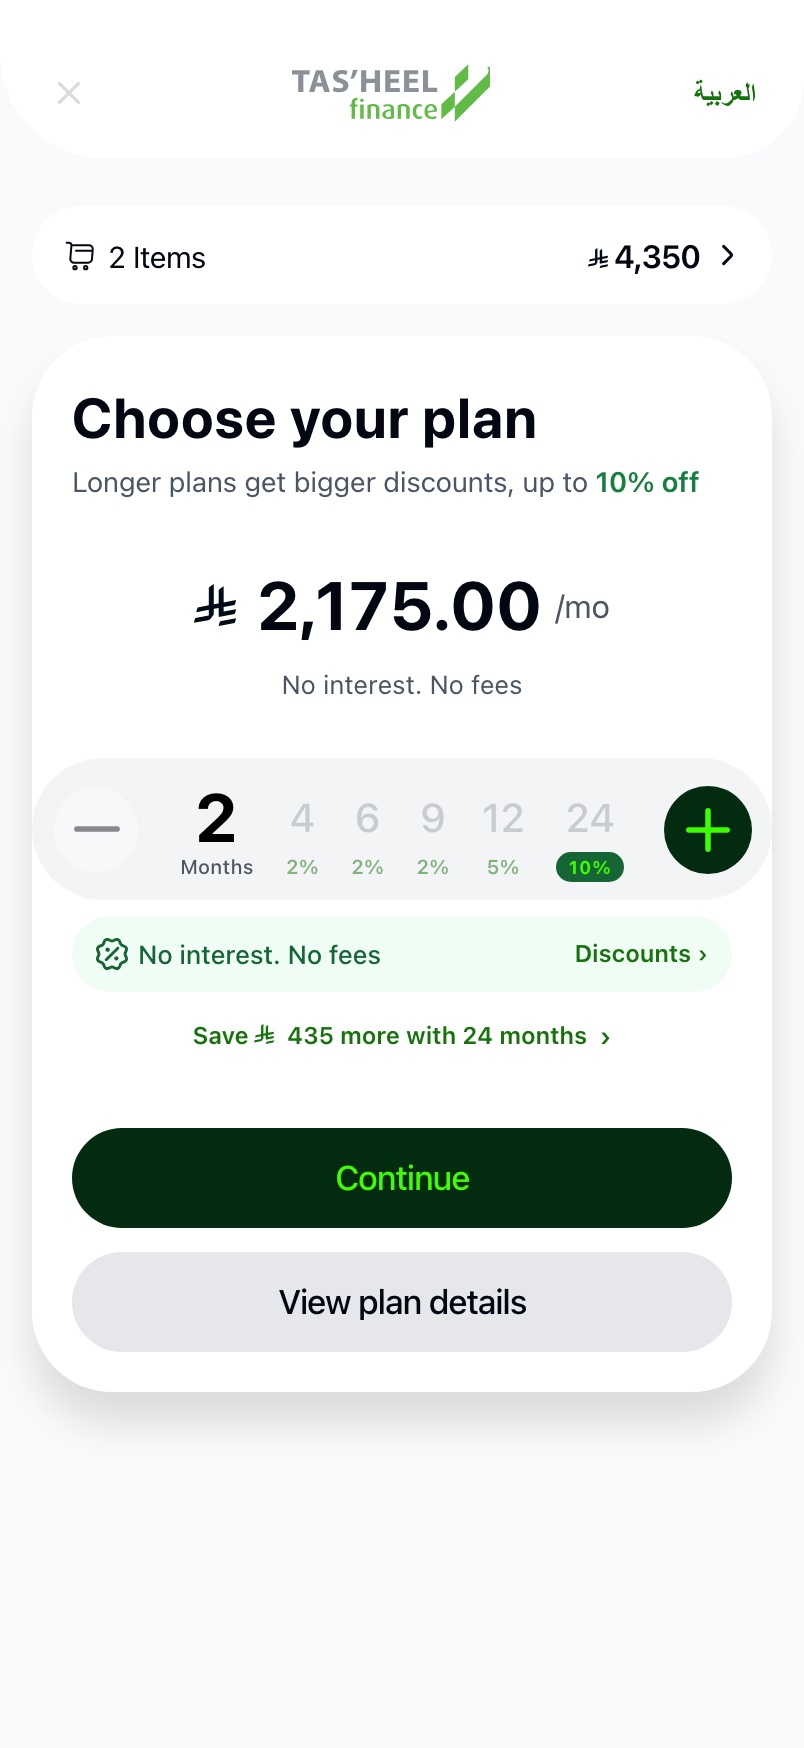
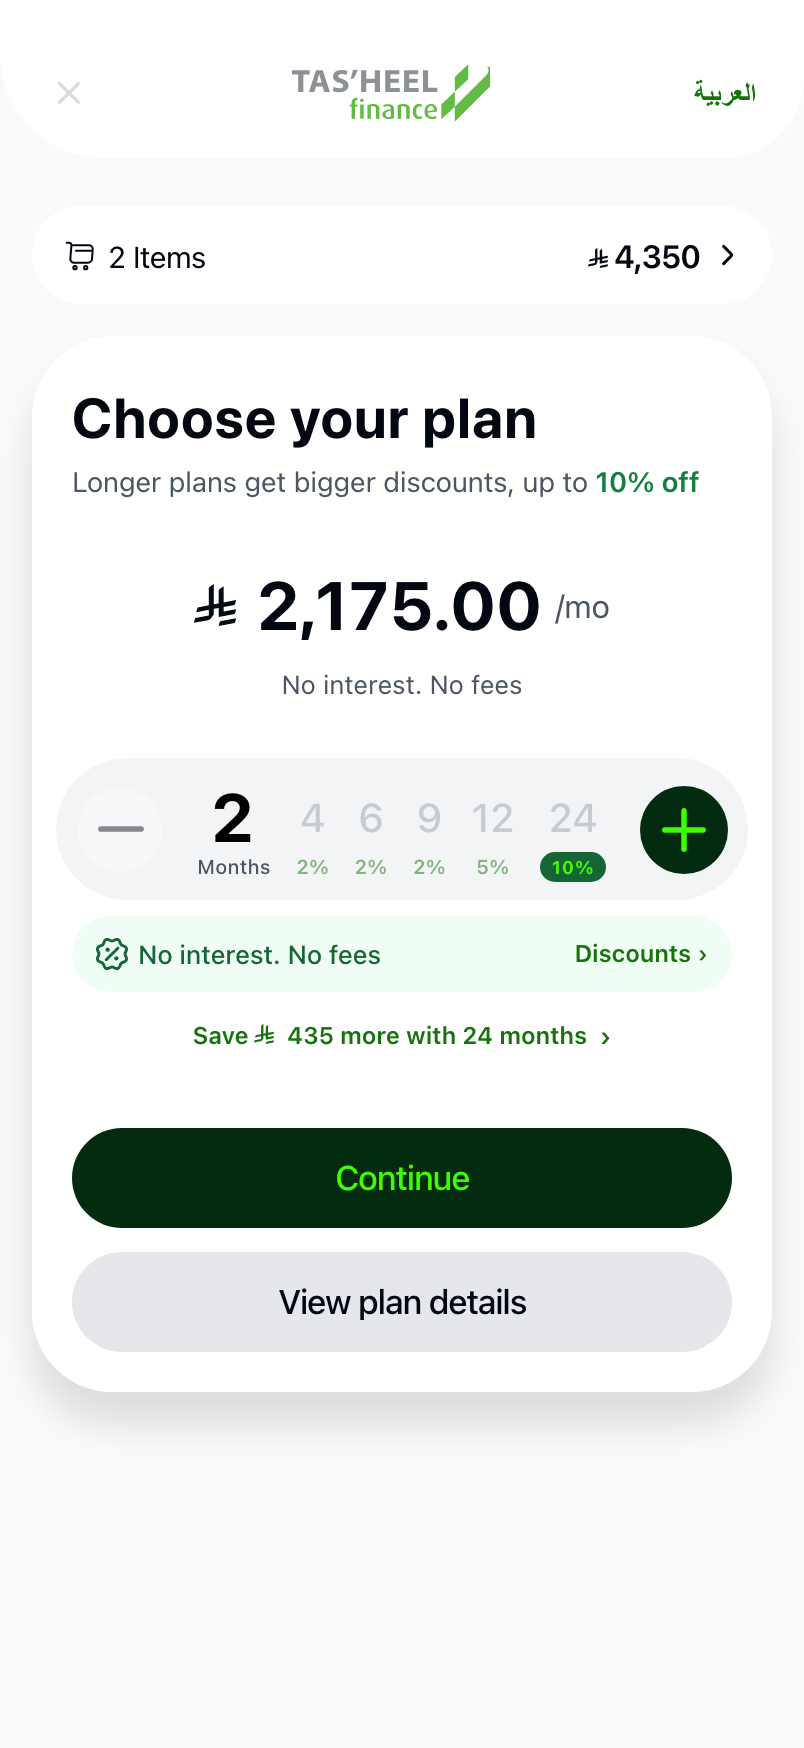
Rail keeps a 12px margin to the card edge; flush read as broken

diff --git a/App.tsx b/App.tsx
@@ -4563,9 +4563,9 @@ const styles = StyleSheet.create({
   wcPlanTitle: { fontSize: 28, lineHeight: 34, fontWeight: '700', color: text, letterSpacing: 0.36 },
   wcPlanSub: { fontSize: 14, lineHeight: 18, color: muted, letterSpacing: -0.08 },
   wcPlanSubStrong: { fontWeight: '600', color: '#15803d' },
-  // The rail escapes the card inset entirely — full 358px of track so six slots
-  // and two 44px buttons sit loose instead of squeezed.
-  wcStepperTrack: { alignSelf: 'stretch', marginHorizontal: -20, borderRadius: 999, backgroundColor: '#f3f4f6', paddingHorizontal: 10, paddingVertical: 9, flexDirection: 'row', alignItems: 'center', justifyContent: 'space-between' },
+  // The rail bleeds past the card inset for room, but keeps a 12px margin to the
+  // card edge — flush-to-edge read as broken, not generous.
+  wcStepperTrack: { alignSelf: 'stretch', marginHorizontal: -8, borderRadius: 999, backgroundColor: '#f3f4f6', paddingHorizontal: 10, paddingVertical: 9, flexDirection: 'row', alignItems: 'center', justifyContent: 'space-between' },
   wcStepperMinus: { width: 44, height: 44, borderRadius: 99, backgroundColor: '#fff', borderWidth: 1, borderColor: borderSubtle, alignItems: 'center', justifyContent: 'center' },
   wcStepperPlus: { width: 44, height: 44, borderRadius: 99, backgroundColor: green, alignItems: 'center', justifyContent: 'center' },
   wcStepperValues: { flex: 1, flexDirection: 'row', alignItems: 'center', justifyContent: 'space-evenly', paddingHorizontal: 4 },
